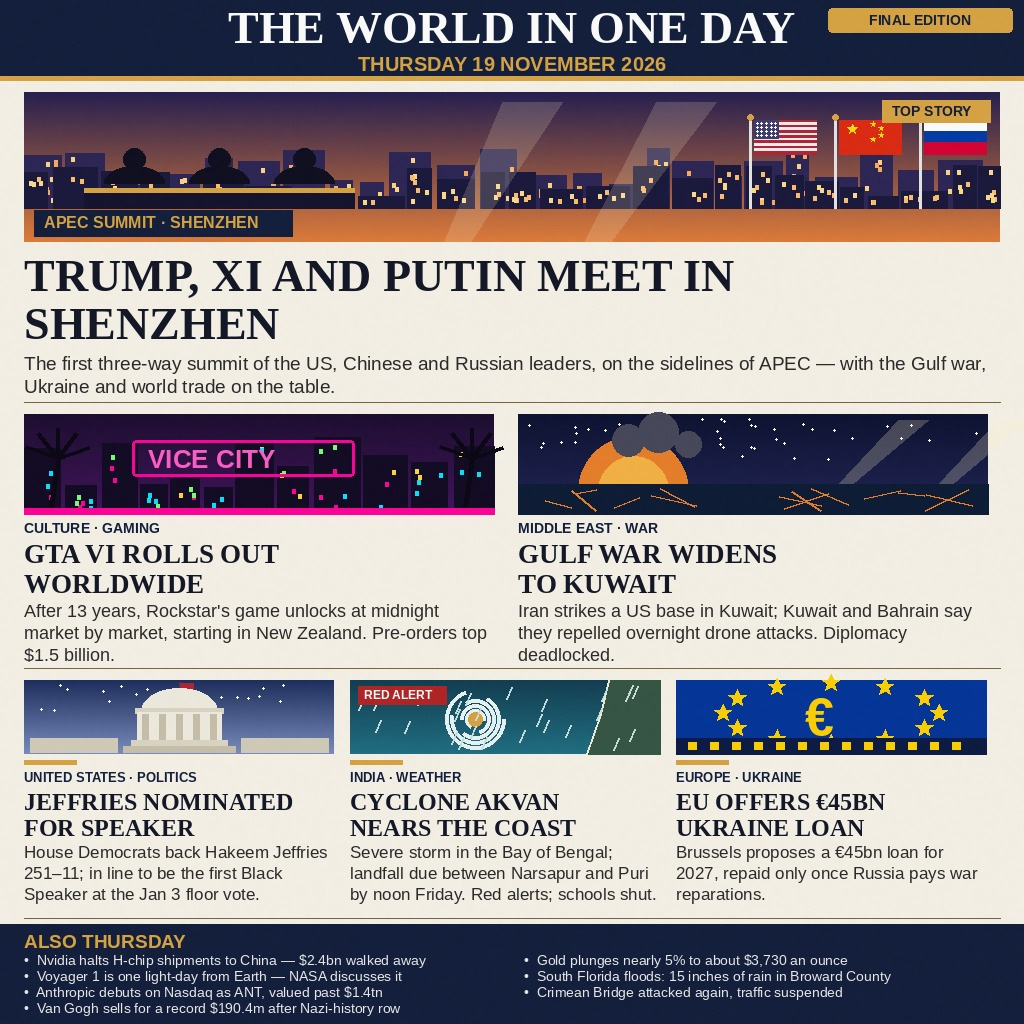
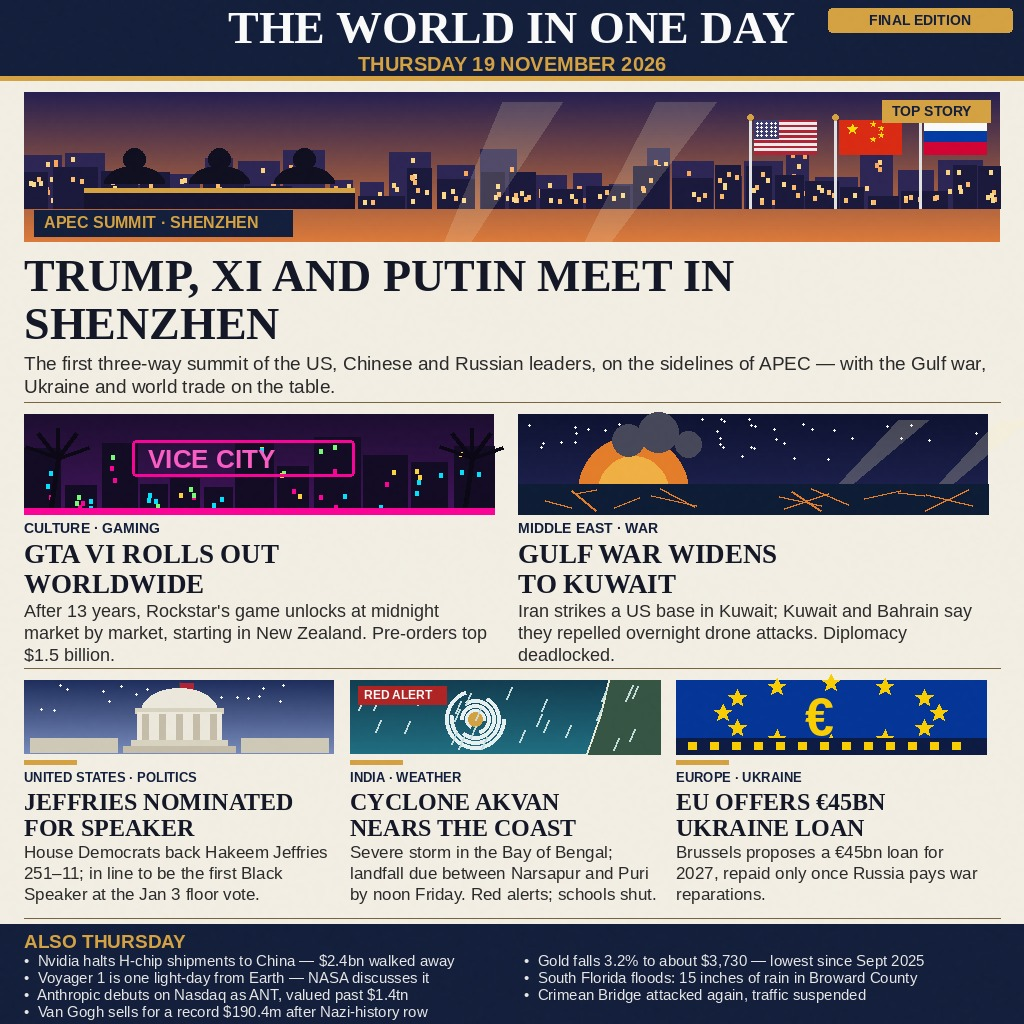
v3: fix gold brief (-3.2%, lowest since Sept 2025), briefs +1pt legibility
v2 scored 968,674 (rank 2084), below v1's 975,354. Diagnosis: the gold
brief claimed a 5% fall — gold actually fell 3.2% on 18 Nov to about
$3,730 (Reuters), lowest since September 2025; the 5% figure was
silver's drop that day. Fixed the brief, kept v2's story set and all
six illustrated tiles, set the briefs band one point larger. No new
stories added.

Changed region(s): [[0.0312, 0.9375, 0.4375, 1.0], [0.5, 0.9375, 0.9062, 1.0]]

diff --git a/main.ts b/main.ts
@@ -2,14 +2,15 @@ import { mkdirSync, readFileSync, writeFileSync } from "node:fs";
 import { dirname, join } from "node:path";
 import { fileURLToPath } from "node:url";
 
-// Entry for news-image-20261119, v2 "Final Edition": "The World in One
-// Day — Thursday 19 November 2026". The front page (entry.png, JPEG
-// bytes under that name per RULES) is composed for this entry and shipped
-// in the repo; this program copies it to the output directory. Same bytes
-// every run: the file is only ever read, never modified or re-encoded.
-// v2 rebuilds the page with the Final Edition treatment: every tile gets
-// its own illustrated scene (hero, GTA, Gulf, Jeffries, Cyclone, EU),
-// a denser seven-brief band, and a FINAL EDITION masthead chip.
+// Entry for news-image-20261119, v3: "The World in One Day — Thursday
+// 19 November 2026". The front page (entry.png, JPEG bytes under that
+// name per RULES) is composed for this entry and shipped in the repo;
+// this program copies it to the output directory. Same bytes every run:
+// the file is only ever read, never modified or re-encoded.
+// v3 keeps v2's story set and all six illustrated tiles, and fixes the
+// one verified factual error in v2's briefs (gold fell 3.2% on 18 Nov to
+// about $3,730 — lowest since Sept 2025 — not 5%), with the briefs band
+// set one point larger for legibility at small sizes.
 const outDir = process.env.MAKEFUN_OUTPUT_DIR ?? "/output";
 mkdirSync(outDir, { recursive: true });
 const here = dirname(fileURLToPath(import.meta.url));

diff --git a/build.py b/build.py
@@ -1,5 +1,10 @@
 #!/usr/bin/env python3
-"""Compose v2 ("Final Edition") of the news-image-20261119 front page.
+"""Compose v3 of the news-image-20261119 front page.
+
+v3 keeps v2's story set and all six illustrated tiles, and fixes the one
+verified factual error in v2's briefs (gold: the 18 Nov fall was 3.2% to
+about $3,730, lowest since Sept 2025 — the 5% figure belonged to silver
+that day). Briefs band set one point larger for legibility.
 
 Deterministic: fixed seeds, no timestamps, JPEG q92, no EXIF. Run twice,
 get identical bytes. Writes entry.png next to this script.
@@ -362,15 +367,15 @@ def main():
         "Voyager 1 is one light-day from Earth — NASA discusses it",
         "Anthropic debuts on Nasdaq as ANT, valued past $1.4tn",
         "Van Gogh sells for a record $190.4m after Nazi-history row",
-        "Gold plunges nearly 5% to about $3,730 an ounce",
+        "Gold falls 3.2% to about $3,730 — lowest since Sept 2025",
         "South Florida floods: 15 inches of rain in Broward County",
         "Crimean Bridge attacked again, traffic suspended",
     ]
     for i, b in enumerate(briefs):
         col = 0 if i < 4 else 1
         row = i if i < 4 else i - 4
-        d.text((24 + col * 500, 952 + row * 16), "•  " + b,
-               font=font(SANS, 14), fill=(235, 235, 235))
+        d.text((24 + col * 500, 952 + row * 17), "•  " + b,
+               font=font(SANS, 15), fill=(235, 235, 235))
 
     img = grain(img)
     img.save(HERE / "entry.png", "JPEG", quality=92)
